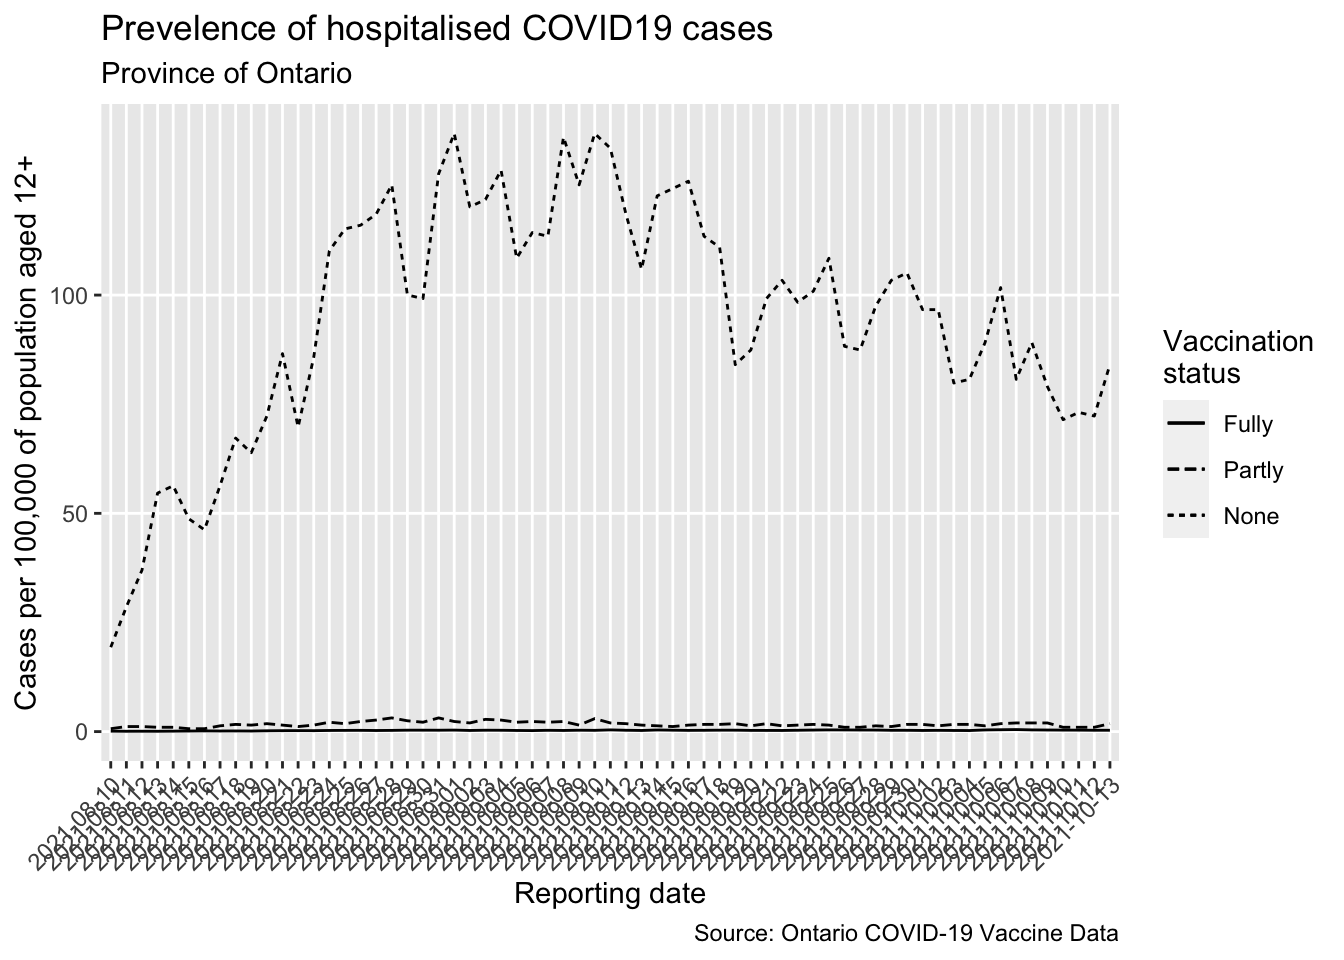
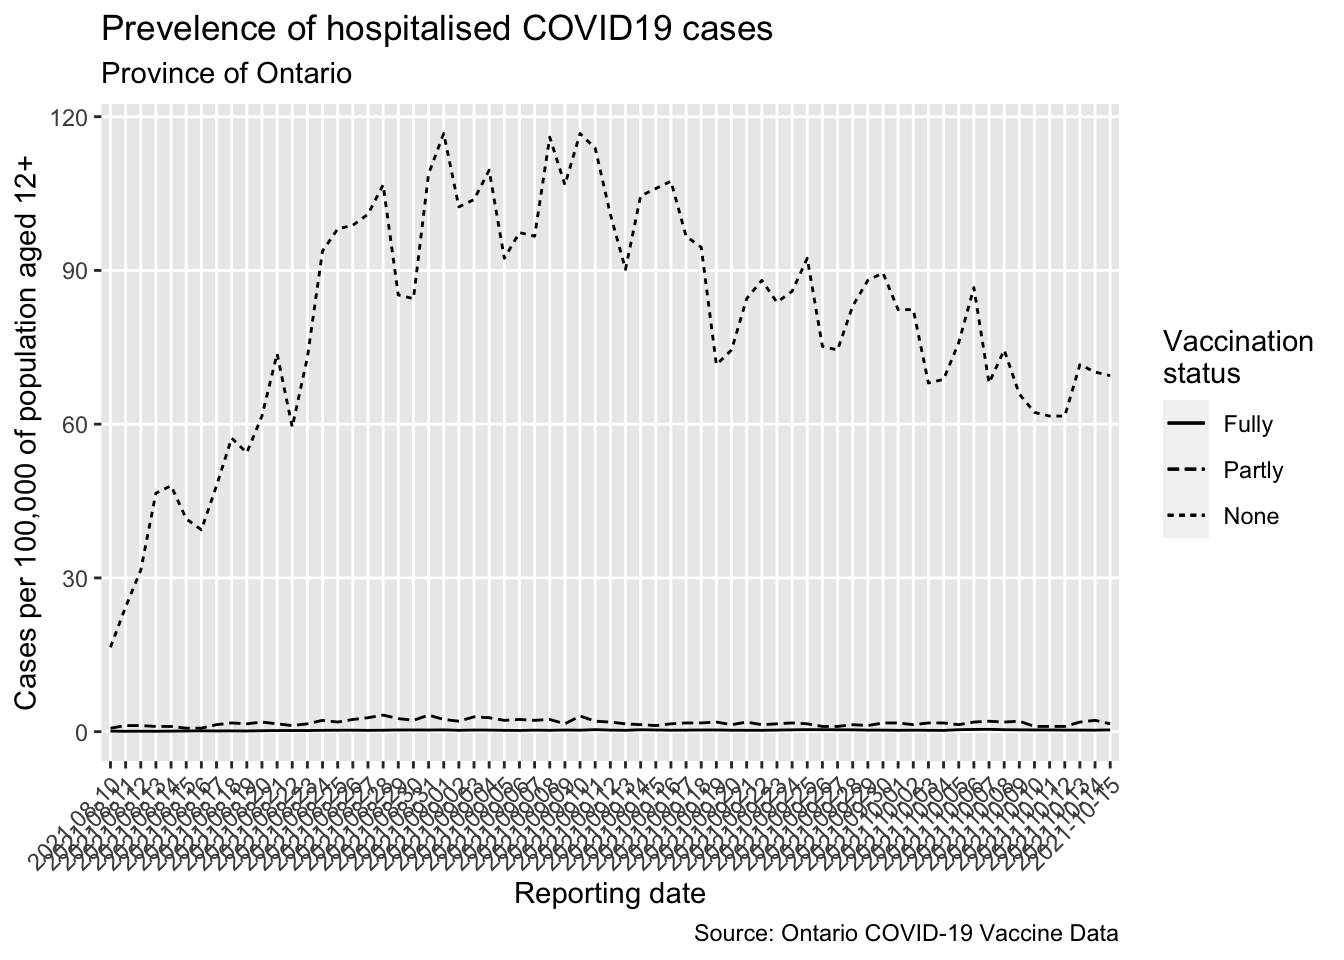
2021-10-15 update

diff --git a/docs/index.html b/docs/index.html
@@ -10,7 +10,7 @@
 
 
 
-<meta name="date" content="2021-10-13" />
+<meta name="date" content="2021-10-15" />
 
 <title>Ontario COVID-19 vaccination progress</title>
 
@@ -190,7 +190,7 @@ summary {
 
 
 <h1 class="title toc-ignore">Ontario COVID-19 vaccination progress</h1>
-<h4 class="date">2021-10-13</h4>
+<h4 class="date">2021-10-15</h4>
 
 </div>
 
@@ -210,10 +210,10 @@ summary {
 </thead>
 <tbody>
 <tr class="odd">
-<td align="center">2021-10-13</td>
-<td align="center">10756935</td>
-<td align="center">605442</td>
-<td align="center">11362377</td>
+<td align="center">2021-10-15</td>
+<td align="center">10794769</td>
+<td align="center">588292</td>
+<td align="center">11383061</td>
 </tr>
 </tbody>
 </table>
@@ -244,9 +244,9 @@ summary {
 </thead>
 <tbody>
 <tr class="odd">
-<td align="center">2021-10-13</td>
-<td align="center">29857</td>
-<td align="center">22119312</td>
+<td align="center">2021-10-15</td>
+<td align="center">29762</td>
+<td align="center">22177830</td>
 </tr>
 </tbody>
 </table>

diff --git a/docs/ontario-covid-vaccinations.html b/docs/ontario-covid-vaccinations.html
@@ -207,10 +207,10 @@ summary {
 </thead>
 <tbody>
 <tr class="odd">
-<td align="center">2021-10-13</td>
-<td align="center">10756935</td>
-<td align="center">605442</td>
-<td align="center">11362377</td>
+<td align="center">2021-10-15</td>
+<td align="center">10794769</td>
+<td align="center">588292</td>
+<td align="center">11383061</td>
 </tr>
 </tbody>
 </table>
@@ -241,9 +241,9 @@ summary {
 </thead>
 <tbody>
 <tr class="odd">
-<td align="center">2021-10-13</td>
-<td align="center">29857</td>
-<td align="center">22119312</td>
+<td align="center">2021-10-15</td>
+<td align="center">29762</td>
+<td align="center">22177830</td>
 </tr>
 </tbody>
 </table>
